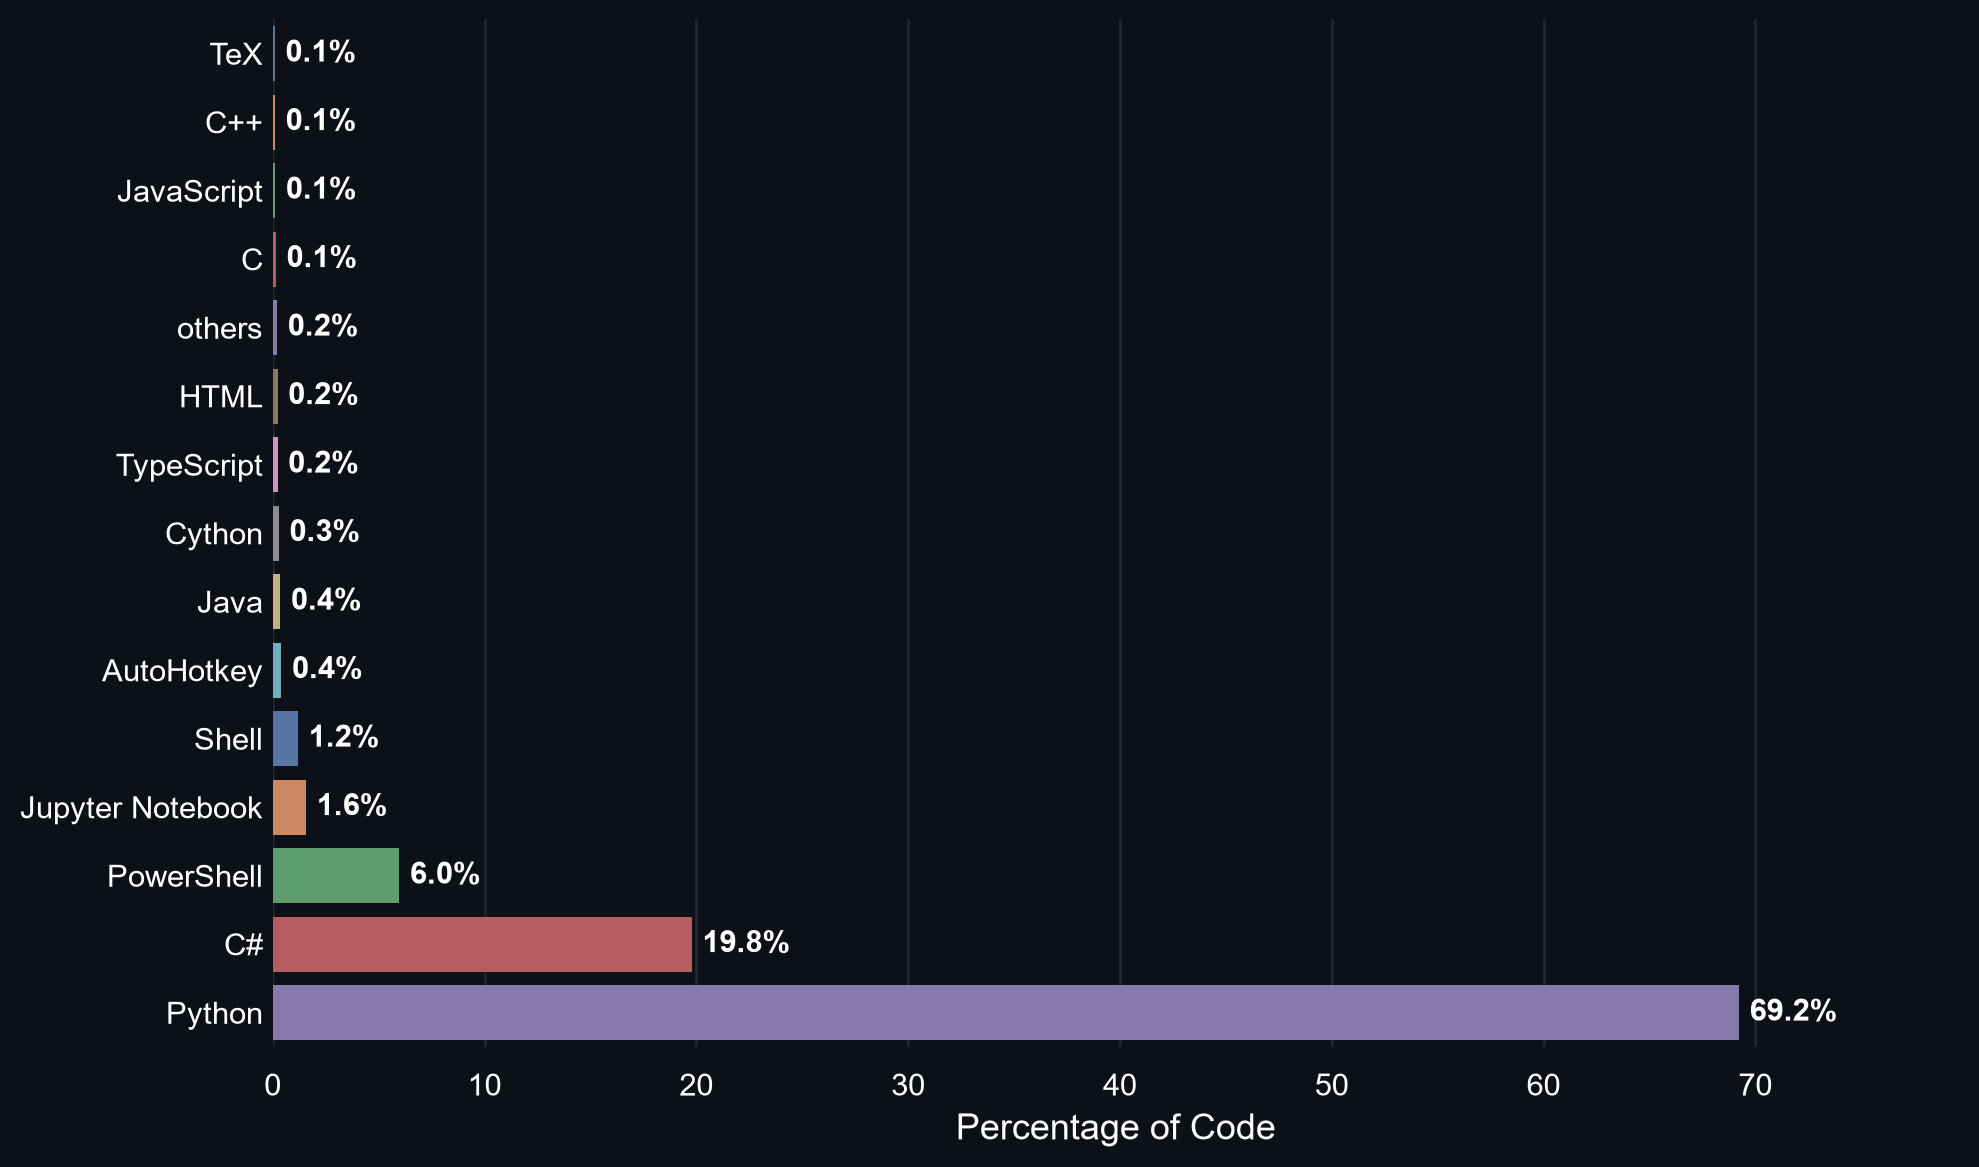
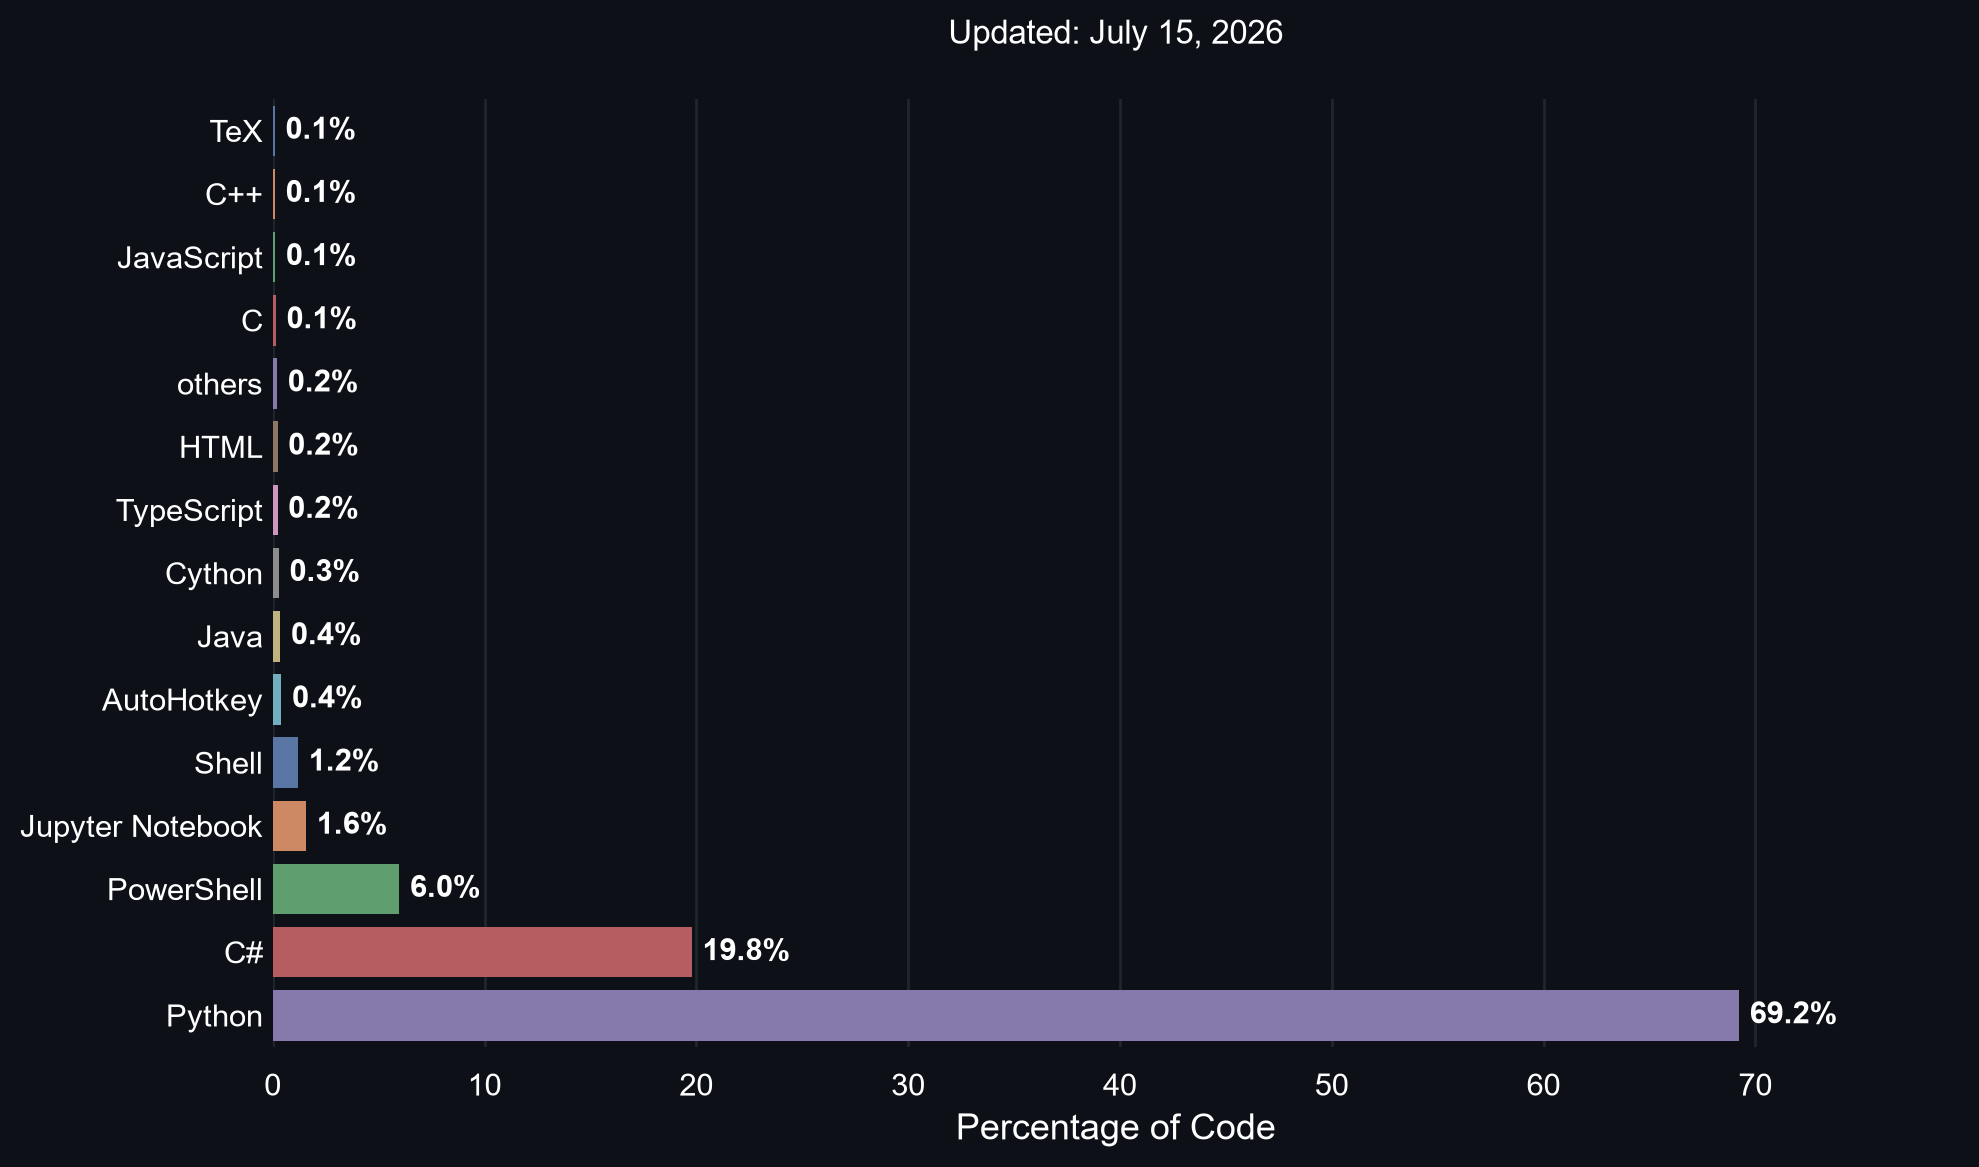
Updated: Readme.md file move to the main folder.

diff --git a/.github/scripts/chart.py b/.github/scripts/chart.py
@@ -70,9 +70,10 @@ ax.grid(False, axis="y")              # no horizontal grid lines
 ax.set_xlim(0, max(sizes) * 1.15)     # extra space for labels
 
 # Labels and optional title
+current_day = date.today().strftime("%B %d, %Y")
 ax.set_xlabel("Percentage of Code", fontsize=13, color="white")
 ax.set_ylabel("")
-ax.set_title(f"Updated: {date.today().strftime("%B %d, %Y")}", fontsize=12, pad=20)
+ax.set_title(f"Updated: {current_day}", fontsize=12, pad=20)
 
 # --- Save the figure ---
 plt.tight_layout()
